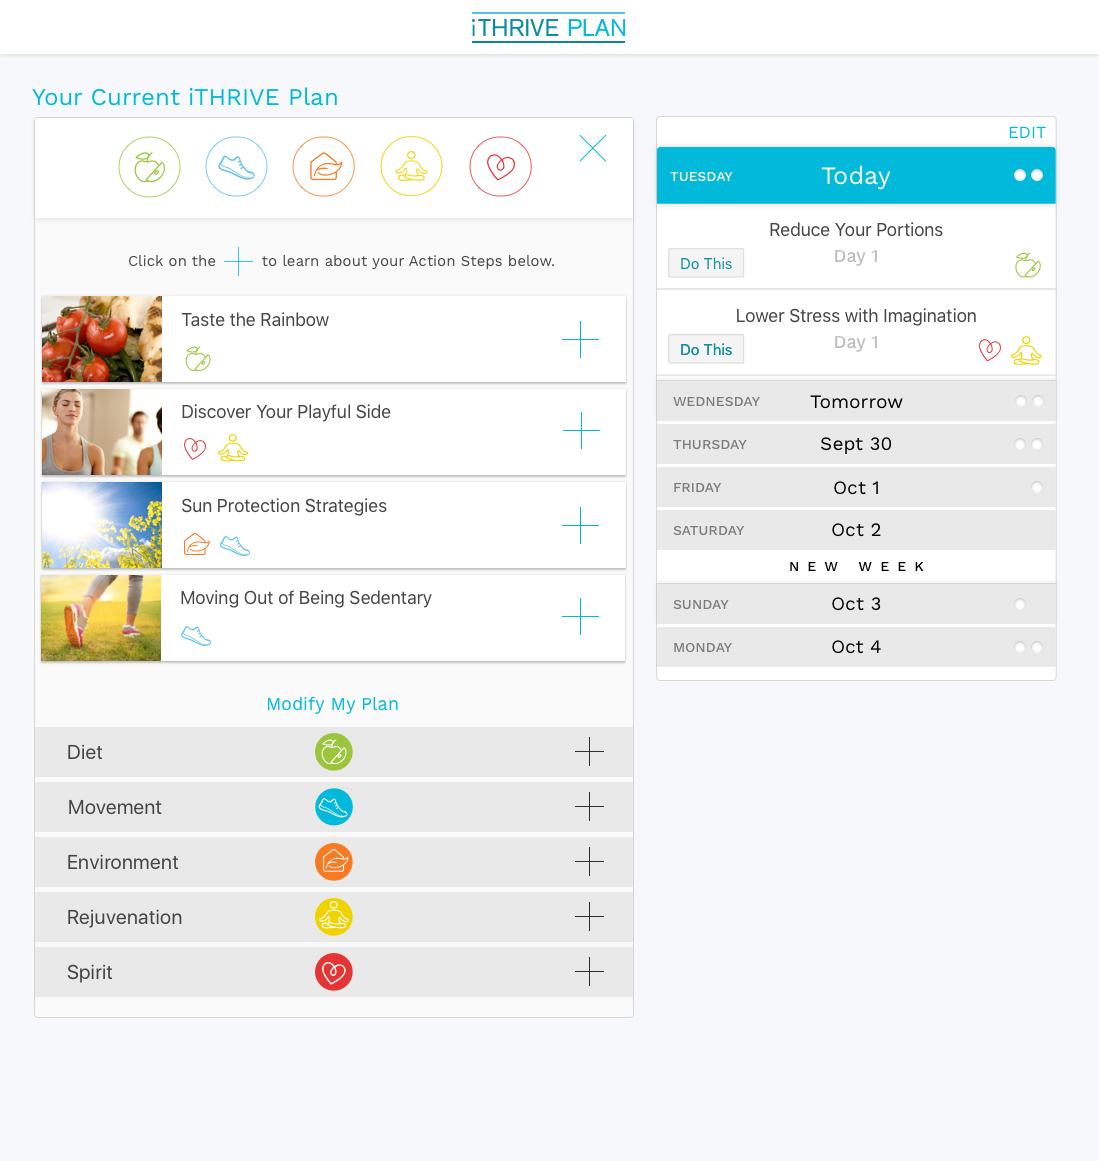
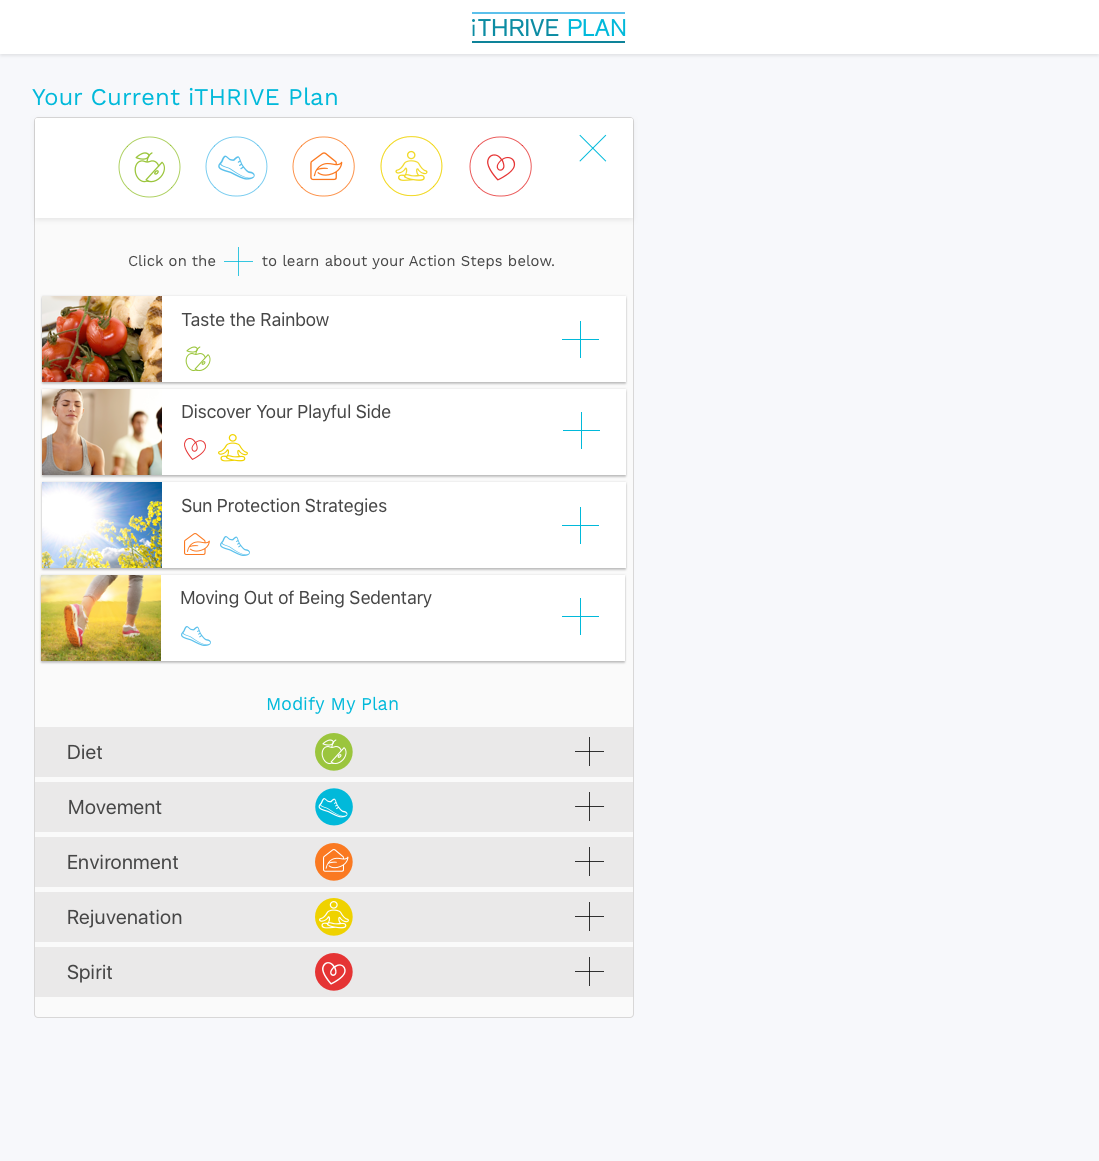
add

diff --git a/index.html b/index.html
@@ -5,17 +5,12 @@
     <title>ithrive - do this</title>
 	
 	<style type="text/css">
-	  
-   		body, html {
-			margin: 0;
-			padding: 0;
-			height: 100%;
-		}
+   		body, html {margin: 0; padding: 0; height: 100%;}
+   		
 		body {
  			background: #F7F8FB url(images/bg.png) repeat-x; 
 			/*background: #fff;*/
 		}
-	    
 	    
 	    #top {
 		    height:3px;
@@ -26,6 +21,7 @@
 		}
 		
 		#centerCol {
+			position: relative;
 			margin-left: auto;
 			margin-right: auto;
 			padding-left: 170px;
@@ -45,7 +41,17 @@
 			position: absolute;
 			right: 22px;
 			top:16px;
-		}	
+		}
+
+		div.positioner {
+			position: absolute;
+			left: 826px;
+		}
+
+		.sched {
+			position: fixed;
+			top:116px;
+		}
   </style>
 
   </head>
@@ -53,6 +59,9 @@
   	<div id="centerCol">
 		<img src="images/site.png" alt="" />
 		<img class="burger" src="images/hamburger.png" alt="" />
+		<div class="positioner">
+			<img class="sched" src="images/sched.png" alt="" />
+		</div>	
   	<div>
   	<div id="left_nav">
   		<img src="images/nav.png" alt="" />
